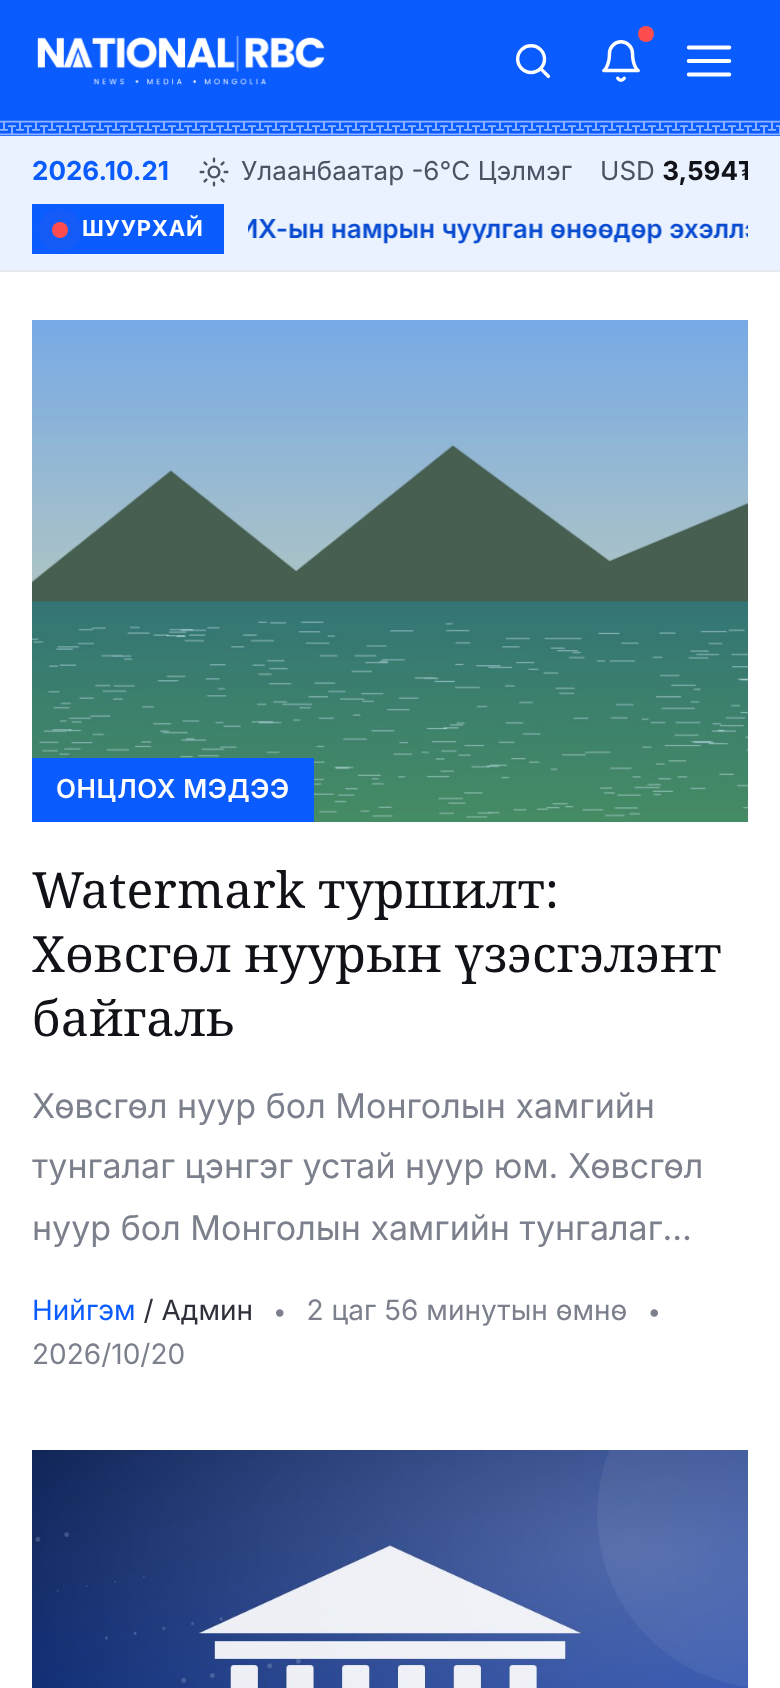
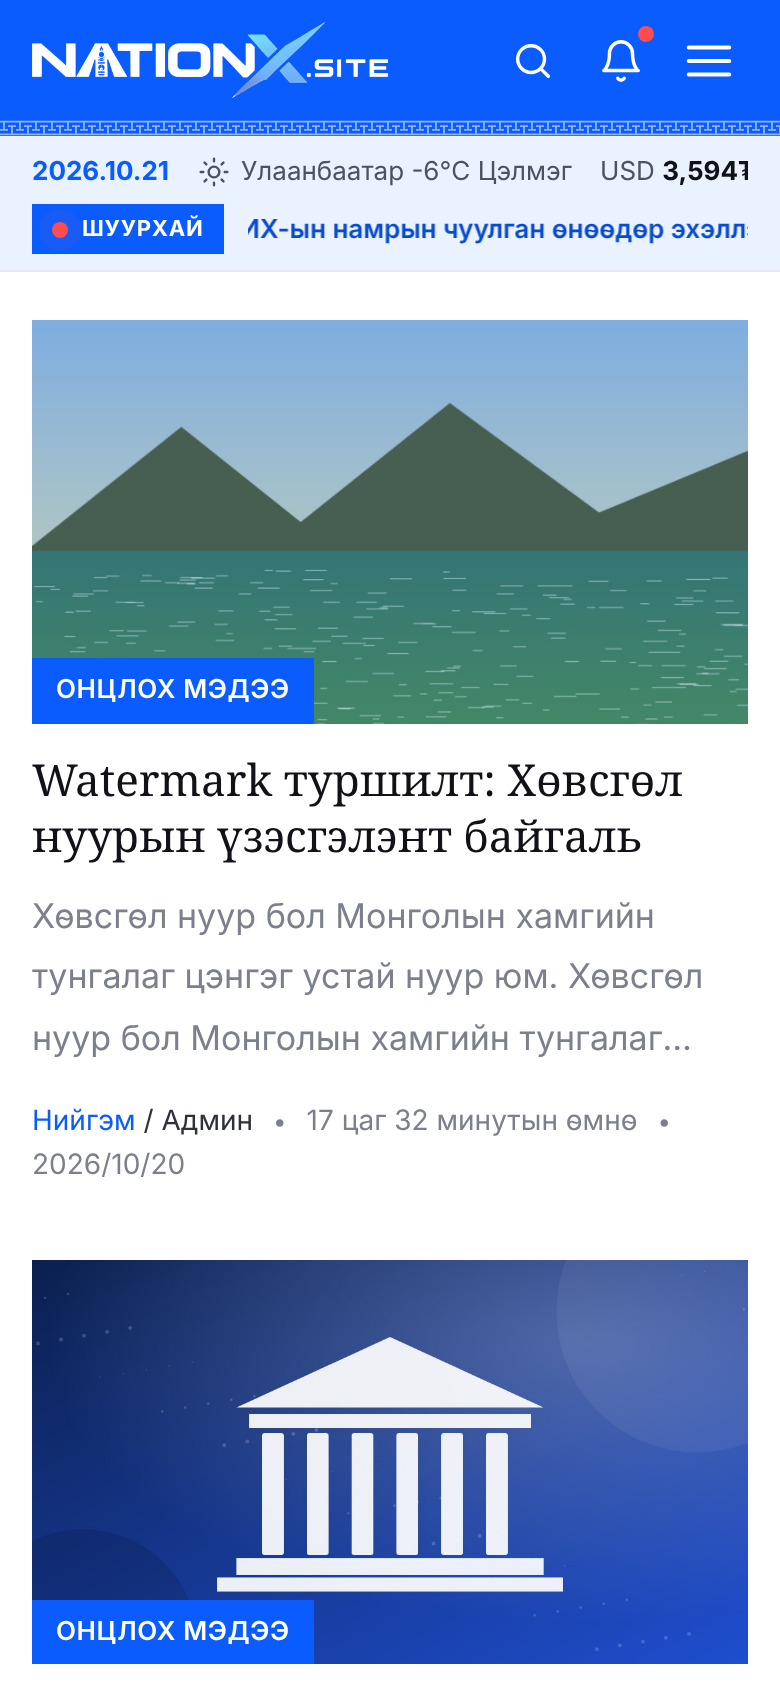
Шинэ NationX.site лого: толгой, хөл, watermark, og зураг
Claude-Session: https://claude.ai/code/session_01JvAJfAud3Ah2p7wG7HWkKJ

diff --git a/php/assets/css/style.css b/php/assets/css/style.css
@@ -44,7 +44,7 @@ button { font: inherit; }
 .icon-btn { background: none; border: 0; color: inherit; padding: 4px; cursor: pointer; display: inline-flex; }
 .logo { flex-shrink: 0; font-family: var(--serif); font-size: 28px; font-weight: 500; color: #fff; letter-spacing: -.5px; line-height: 1; white-space: nowrap; }
 .logo:hover { color: #fff; }
-.logo img { height: 40px; width: auto; display: block; }
+.logo img { height: 48px; width: auto; display: block; }
 /* Categories in the bar; ones that do not fit wrap onto a hidden second line (all are in the drawer). */
 .main-nav { flex: 1; min-width: 0; display: flex; flex-wrap: wrap; height: 72px; overflow: hidden; column-gap: 22px; }
 .main-nav a { display: flex; align-items: center; height: 72px; color: #fff; font-size: 15px; font-weight: 600; white-space: nowrap; border-bottom: 3px solid transparent; padding-top: 3px; transition: border-color .15s, opacity .15s; }
@@ -90,7 +90,7 @@ body.drawer-open .drawer { transform: translateX(0); }
 body.drawer-open .drawer-overlay { opacity: 1; pointer-events: auto; }
 .drawer-head { display: flex; justify-content: space-between; align-items: center; padding: 22px 24px; background: var(--brand); color: #fff; }
 .logo-sm { font-size: 28px; }
-.logo-sm img { max-height: 34px; }
+.logo-sm img { max-height: 40px; }
 .drawer-nav, .drawer-pages { list-style: none; margin: 0; padding: 8px 0; }
 .drawer-nav a { display: block; padding: 13px 24px; font-size: 16px; font-weight: 600; color: var(--ink); border-left: 3px solid transparent; }
 .drawer-nav a:hover, .drawer-nav a.active { color: var(--brand); background: var(--brand-soft); border-left-color: var(--brand); }
@@ -229,7 +229,7 @@ body.drawer-open .drawer-overlay { opacity: 1; pointer-events: auto; }
 .site-footer { background: var(--footer); color: #fff; }
 .footer-grid { display: grid; grid-template-columns: 1.5fr 1.2fr .8fr; gap: 64px; padding-top: 88px; padding-bottom: 56px; }
 .footer-brand p { font-size: 14px; line-height: 1.95; margin: 26px 0 36px; max-width: 560px; }
-.footer-brand .logo img { max-height: 46px; }
+.footer-brand .logo img { max-height: 56px; }
 .socials { display: flex; gap: 12px; }
 .socials a { width: 44px; height: 44px; border-radius: 50%; border: 2px solid currentColor; display: inline-flex; align-items: center; justify-content: center; color: #fff; transition: background .2s, color .2s; }
 .site-footer .socials a:hover { background: #fff; color: var(--footer); }
@@ -405,7 +405,7 @@ body.drawer-open .drawer-overlay { opacity: 1; pointer-events: auto; }
   .article-foot { flex-direction: column; align-items: flex-start; }
   .header-inner { height: 60px; gap: 12px; }
   .main-nav { display: none; }
-  .logo img { height: 30px; }
+  .logo img { height: 38px; }
   .header-actions { gap: 4px; }
   .header-search-inner { height: 58px; }
   .header-search-inner > .icon { display: none; }

diff --git a/php/install.php b/php/install.php
@@ -14,7 +14,7 @@ $errors = [];
 $done = false;
 $f = [
     'db_host' => 'localhost', 'db_name' => '', 'db_user' => '', 'db_pass' => '',
-    'site_name' => 'Nationalrbc.com', 'admin_user' => 'admin', 'admin_pass' => '', 'demo' => '1',
+    'site_name' => 'NationX.site', 'admin_user' => 'admin', 'admin_pass' => '', 'demo' => '1',
 ];
 
 // A config.php made by hand (from config.sample.php) prefills the form; the site counts
@@ -91,7 +91,7 @@ if (!$installed && $_SERVER['REQUEST_METHOD'] === 'POST') {
                 $id = $pdo->lastInsertId();
             }
             $pdo->prepare('INSERT INTO settings (name, `value`) VALUES (?, ?) ON DUPLICATE KEY UPDATE `value` = VALUES(`value`)')
-                ->execute(['site_name', $f['site_name'] ?: 'Nationalrbc.com']);
+                ->execute(['site_name', $f['site_name'] ?: 'NationX.site']);
             $https = !empty($_SERVER['HTTPS']) && $_SERVER['HTTPS'] !== 'off';
             $siteUrl = ($https ? 'https' : 'http') . '://' . $_SERVER['HTTP_HOST'] . rtrim(str_replace('\\', '/', dirname($_SERVER['SCRIPT_NAME'])), '/');
             $pdo->prepare('INSERT INTO settings (name, `value`) VALUES (?, ?) ON DUPLICATE KEY UPDATE `value` = VALUES(`value`)')
@@ -102,7 +102,7 @@ if (!$installed && $_SERVER['REQUEST_METHOD'] === 'POST') {
                 insert_demo_articles($pdo, (int) $id);
             }
 
-            $config = "<?php\n// Nationalrbc.com тохиргоо — install.php үүсгэсэн\nreturn " . var_export([
+            $config = "<?php\n// NationX.site тохиргоо — install.php үүсгэсэн\nreturn " . var_export([
                 'db_host' => $f['db_host'], 'db_name' => $f['db_name'], 'db_user' => $f['db_user'], 'db_pass' => $f['db_pass'],
                 'debug' => false,
             ], true) . ";\n";
@@ -127,13 +127,13 @@ $base = rtrim(str_replace('\\', '/', dirname($_SERVER['SCRIPT_NAME'])), '/');
 <head>
   <meta charset="utf-8">
   <meta name="viewport" content="width=device-width, initial-scale=1">
-  <title>Суулгах — Nationalrbc.com</title>
+  <title>Суулгах — NationX.site</title>
   <link rel="stylesheet" href="<?= h($base) ?>/assets/css/admin.css">
   <style>.install{max-width:620px;margin:40px auto;padding:0 16px}.checks{list-style:none;padding:0;margin:0}.checks li{padding:4px 0}.ok{color:#166534}.bad{color:#b91c1c}</style>
 </head>
 <body>
 <div class="install">
-  <h1>Nationalrbc.com — Суулгах</h1>
+  <h1>NationX.site — Суулгах</h1>
   <?php if ($done): ?>
     <div class="flash flash-success">Амжилттай суулаа!</div>
     <div class="panel">

diff --git a/php/templates/admin/settings.php b/php/templates/admin/settings.php
@@ -15,7 +15,7 @@
     <label>Үндсэн өнгө <small>толгой хэсэг, товч, холбоосын өнгө</small>
       <span class="color-row"><input type="color" name="brand_color" value="<?= e(brand_color()) ?>"><code><?= e(brand_color()) ?></code></span></label>
     <label>Лого <small>PNG (тунгалаг дэвсгэртэй), өндөр нь 80-120px байхад тохиромжтой. Байхгүй бол сайтын нэр бичигдэнэ.</small>
-      <?php if (site_logo_url()): ?><span class="logo-preview" style="background: <?= e(brand_color()) ?>"><img src="<?= e(site_logo_url()) ?>" alt=""></span><?php if (!$settings['logo']): ?><small> (анхдагч NATIONAL RBC цагаан лого)</small><?php endif; ?><?php endif; ?>
+      <?php if (site_logo_url()): ?><span class="logo-preview" style="background: <?= e(brand_color()) ?>"><img src="<?= e(site_logo_url()) ?>" alt=""></span><?php if (!$settings['logo']): ?><small> (анхдагч NATIONX.site цагаан лого)</small><?php endif; ?><?php endif; ?>
       <input type="file" name="logo_file" accept="image/png,image/jpeg,image/webp"></label>
     <?php if ($settings['logo']): ?><label class="check"><input type="checkbox" name="remove_logo" value="1"> Логог устгах</label><?php endif; ?>
     <label class="check"><input type="checkbox" name="ornaments" value="1" <?= $settings['ornaments'] !== '0' ? 'checked' : '' ?>> Монгол хээ угалз харуулах (алхан хээ, өлзий, эвэр угалз)</label>

diff --git a/php/inc/functions.php b/php/inc/functions.php
@@ -35,7 +35,7 @@ function now()
 function default_settings()
 {
     return [
-        'site_name' => 'Nationalrbc.com',
+        'site_name' => 'NationX.site',
         'site_tagline' => 'Шуурхай, бодит мэдээ',
         'site_url' => detect_site_url(),
         'fb_page_url' => '',
@@ -540,7 +540,7 @@ function site_logo_url()
     if (setting('logo') !== '') {
         return media(setting('logo'));
     }
-    return is_file(ROOT . '/assets/img/nationalrbc-logo-white.png') ? asset('img/nationalrbc-logo-white.png') : '';
+    return is_file(ROOT . '/assets/img/nationx-logo-white.png') ? asset('img/nationx-logo-white.png') : '';
 }
 
 // Share image for pages without their own picture.

diff --git a/php/inc/images.php b/php/inc/images.php
@@ -156,8 +156,8 @@ function watermark_logo_file($brightCorner = false)
     if ($custom !== '' && is_file(ROOT . $custom)) {
         return ROOT . $custom;
     }
-    $color = ROOT . '/assets/img/nationalrbc-logo.png';
-    $white = ROOT . '/assets/img/nationalrbc-logo-white.png';
+    $color = ROOT . '/assets/img/nationx-logo.png';
+    $white = ROOT . '/assets/img/nationx-logo-white.png';
     if ($brightCorner && is_file($color)) {
         return $color;
     }

diff --git a/php/inc/widgets.php b/php/inc/widgets.php
@@ -12,7 +12,7 @@ function http_get_json($url, $timeout = 4)
         CURLOPT_RETURNTRANSFER => true,
         CURLOPT_TIMEOUT => $timeout,
         CURLOPT_CONNECTTIMEOUT => 3,
-        CURLOPT_USERAGENT => 'Nationalrbc.com/1.0',
+        CURLOPT_USERAGENT => 'NationX.site/1.0',
     ]);
     $body = curl_exec($ch);
     $status = (int) curl_getinfo($ch, CURLINFO_HTTP_CODE);

diff --git a/CPANEL.md b/CPANEL.md
@@ -91,7 +91,7 @@ cPanel → **SSL/TLS Status** → домэйноо сонгоод **Run AutoSSL*
 
 ## Зурган дээрх лого (watermark)
 
-Шинээр хуулсан зураг дээр NATIONAL RBC лого автоматаар тавигдана. Гэрэлтэй буланд өнгөт лого, бараан буланд цагаан лого сонгогдоно.
+Шинээр хуулсан зураг дээр NATIONX.site лого автоматаар тавигдана. Гэрэлтэй буланд өнгөт лого, бараан буланд цагаан лого сонгогдоно.
 
 Админ → **Тохиргоо → Зурган дээрх лого** хэсэгт:
 - асаах/унтраах;
